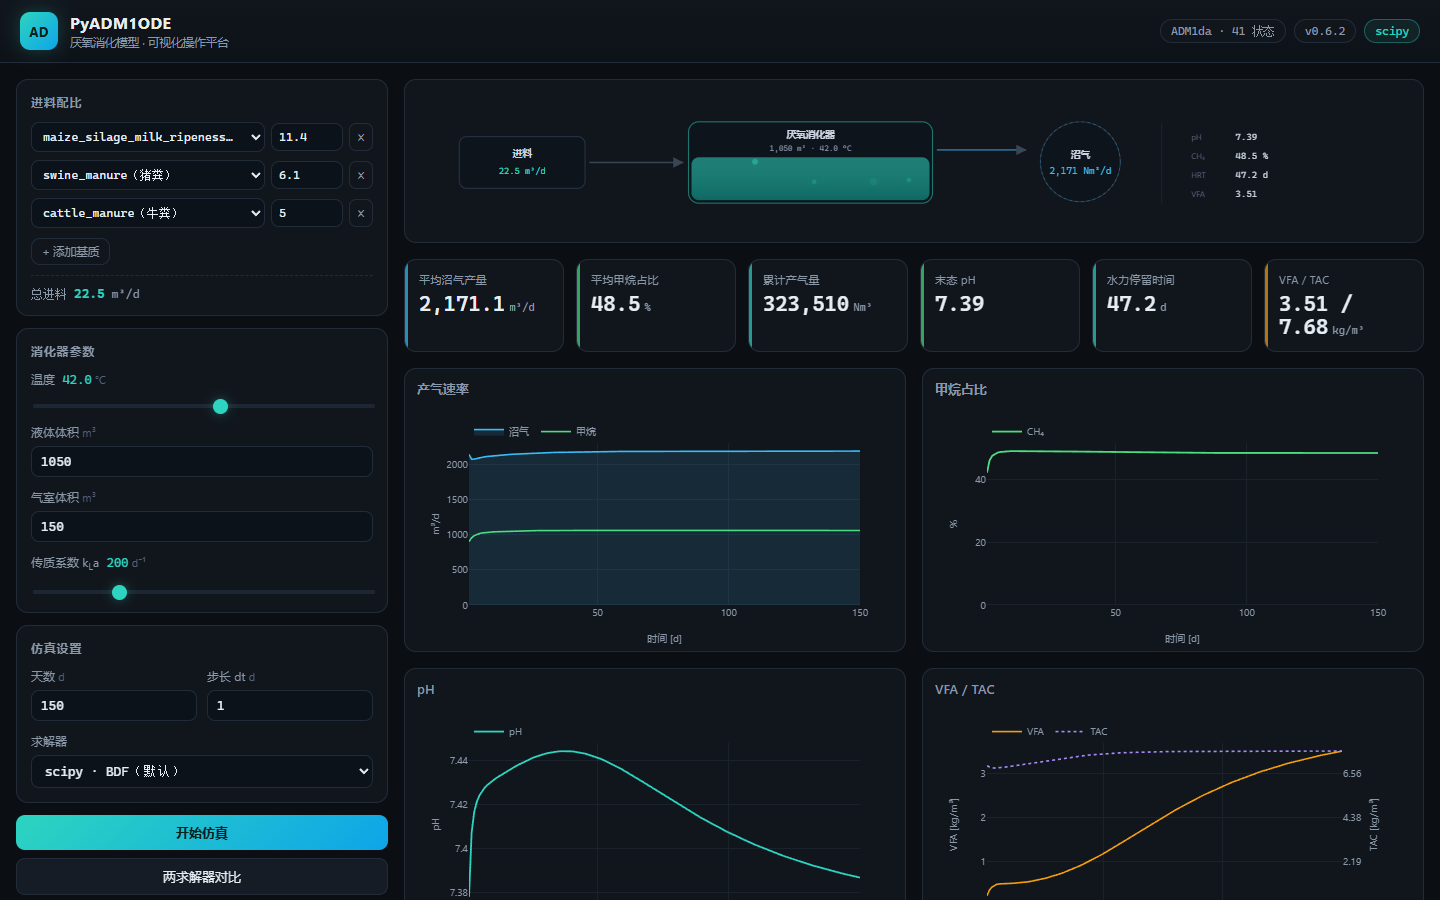
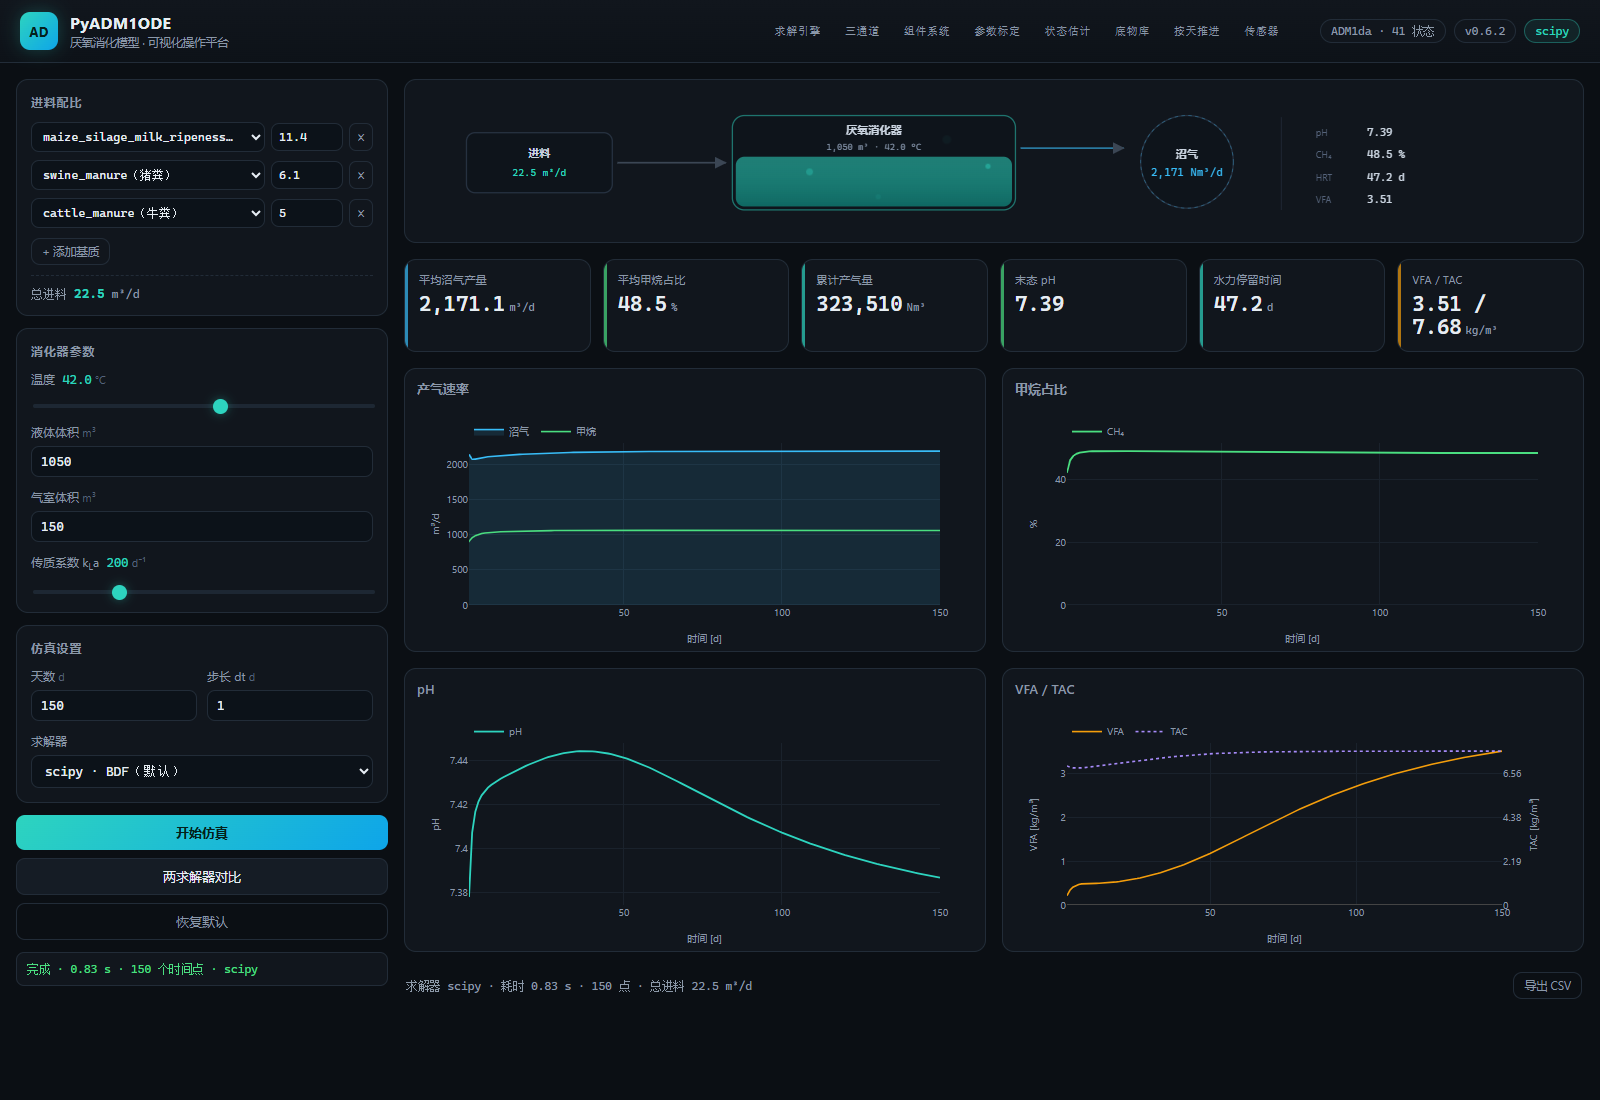
docs(demo): 换掉过时的演示说明与截图
demo/ 还是 11-16 的六页面版本，截图里没有按天推进、传感器、底物库这几块。

- README 重写：分成"演示部分"和"运行部分"两组页面，补上按天推进与传感器诊断
  的用法（可调/锁定原料、推荐配料、跳到第 N 天、诊断先分清过程异常与仪表异常）
- 截图换成当前界面：新增 daily / sensors / substrates / workspaces 四张，
  dashboard 重新截，其余六张一并刷新
- setup.bat 的 ROOT 原本指向 app\PyADM1ODE（便携包布局），与同目录的 start.bat
  （..\PyADM1ODE）不一致，按源码布局改正

experiments/ 没有改动：结果文件与本地逐字节一致，脚本只差换行符。

diff --git a/demo/README.md b/demo/README.md
@@ -1,48 +1,78 @@
-# PyADM1ODE 演示
+# PyADM1ODE 演示与运行环境
 
-厌氧消化（ADM1da，41 状态）的可视化演示：参数在页面上调、求解过程看得见、两条求解器并排比。
+厌氧消化（ADM1da，41 状态）的可视化平台。**模型方程、组件库、配置器、基质数据全部来自上游
+[PyADM1ODE](https://github.com/dgaida/PyADM1ODE)（MIT）**，本项目只改数值层、界面层和实验层。
+
+---
 
 ## 启动
 
-双击 **`start.bat`**，浏览器会自动打开 <http://127.0.0.1:8848>。
+**第一次**：双击 `setup.bat`，建 Python 环境、装三个包、装 Julia（约 310 MB，10 分钟，
+需要联网）。
 
-关掉窗口即停止；或在别的窗口双击 `stop.bat`。
+**之后**：双击 `start.bat`，浏览器自动打开 <http://127.0.0.1:8848>。
+`stop.bat` 停掉占端口的进程。
 
-> 首次启动约 5 秒（Julia 在后台预热）。预热完成后点任何按钮都在 1 秒内出结果。
+> 首次启动约 5 秒（Julia 在后台预热）；预热完成后点任何按钮都在 1 秒内出结果。
+> 没有 Julia 也能跑，会自动退回 SciPy，只是慢一些。
 
-## 六个页面
+目录约定：本文件旁边的 `../PyADM1ODE/` 就是源码仓库，`setup.bat` 在里面建 `.venv`。
+
+---
+
+## 页面
+
+**演示部分**（看模型怎么算）
 
 | 页面 | 地址 | 一句话 |
 | --- | --- | --- |
-| 仪表盘 | `/` | 调配料、改参数、跑仿真、看曲线 |
-| 求解引擎 | `/engine` | 全屏视觉：每一下跳动 = 求解器走的一步 |
-| 三通道分步 | `/trace` | 三种积分器各跑一遍，共用时间轴对比 |
+| 仪表盘 | `/` | 调配料、改参数、跑仿真、看曲线，一键对比两个求解器 |
+| 求解引擎 | `/engine` | 全屏视觉：画面上每一下跳动 = 求解器真实走的一步 |
+| 三通道分步 | `/trace` | 三种积分器共用时间轴，步数差 3.5 倍、终值一致 |
 | 组件系统 | `/system` | 两级厂站，物料 / 沼气 / 能量三条通道 |
-| 参数标定 | `/calibration` | 从数据反演一个动力学参数 |
-| 状态估计 | `/estimation` | UKF 从产气/pH 反推内部状态 |
+| 参数标定 | `/calibration` | 给测量数据，反推动力学参数 |
+| 状态估计 | `/estimation` | 只用气体产率和 pH，反推 41 个内部状态 |
 
-## 建议的演示顺序
+**运行部分**（像工厂那样用）
 
-1. **仪表盘** —— 改一下进料量，点「开始仿真」，曲线立刻变。再点「两求解器对比」。
-2. **求解引擎** —— 讲"画面上每一下都是一个真实的求解步"，拖时间轴到第 40 天看温度阶跃。
-3. **三通道分步** —— 同一个方程，三种积分器，步数差 3.5 倍，终值完全一致。
-4. **参数标定 / 状态估计** —— 讲模型能反演什么、哪些量在短窗口内不可观测。
+| 页面 | 地址 | 一句话 |
+| --- | --- | --- |
+| 按天推进 | `/daily` | 每天加什么料、加多少；按推荐持续加；多方案对比；跳到第 N 天 |
+| 传感器 | `/sensors` | 按小时读数并更正状态；自动诊断"现在正常吗、可能是什么问题、怎么办" |
+| 底物库 | `/substrates` | 内置 13 种 + 自定义，按 TS / 蛋白 / 脂肪 / 纤维 / 灰分描述 |
 
-## 页面截图
+### 按天推进
 
-![仪表盘](images/dashboard.png)
-![求解引擎](images/engine.png)
-![三通道分步](images/trace.png)
+![按天推进](images/daily.png)
 
-## 几个数字（本机实测）
+- 顶部选工作区（每个工作区记住自己的装置状态和曲线），没有就自动建一个
+- 每种原料可以勾"可调/锁定"：**工厂控制不了的原料按合同量固定**，推荐只动可调的
+- 「推荐加料」给出每料的当前 / 推荐 / 变化、预测甲烷、卡在哪条约束
+- 四条曲线（产气、pH、VFA/TAC、负荷）在**同一坐标系**里叠多个方案，靠颜色区分
+- 「跳到第 N 天」从初值按历史投料重放，约 0.05 秒/天
 
-| 指标 | 值 |
-| --- | --- |
-| 150 天单消化器：scipy | 0.96 s |
-| 同上：Julia / Rodas4P | 0.16 s（**5.8×**） |
-| 两后端轨迹最大偏差 | 2.7 × 10⁻⁶ |
-| 测试 | 862 passed |
+### 传感器与诊断
 
-## 数据说明
+![传感器](images/sensors.png)
 
-页面上的"实测数据"是**用模型自己生成的合成数据**（真值已知），用来演示标定与估计方法本身，不是真实厂站的测量记录。
+诊断按规则给出**结论 + 证据 + 动作**，并且先分清两类异常：
+
+- **过程异常**：酸化、氨抑制、产气骤降、甲烷占比下降——罐子真出问题
+- **仪表异常**：NIS 高说明读数与模型严重不符，这时先查表，别急着调料
+
+---
+
+## 可复现实验
+
+`../experiments/` 里有参数筛选实验的脚本与结果：
+
+- 12 个候选参数按敏感性排序，保留 `k_m_ac / k_m_pro / k_dis_PS`
+- 标定后状态估计误差 MAE 15.42 vs 40.11（降低 61.6%），bootstrap 95% CI [+15.28, +34.02]
+- 换随机种子复跑得 70.7%，结论稳定
+
+---
+
+## 便携包
+
+不想装 Python / Julia，用 `PyADM1ODE-portable.zip`（约 110 MB，内置 CPython 3.12）：
+解压后双击 `start.bat` 即可，不需要任何环境。
